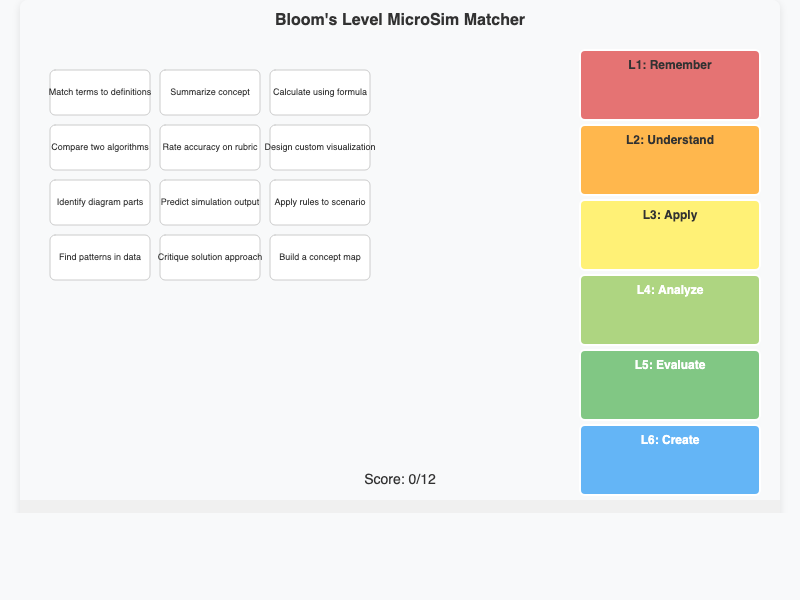
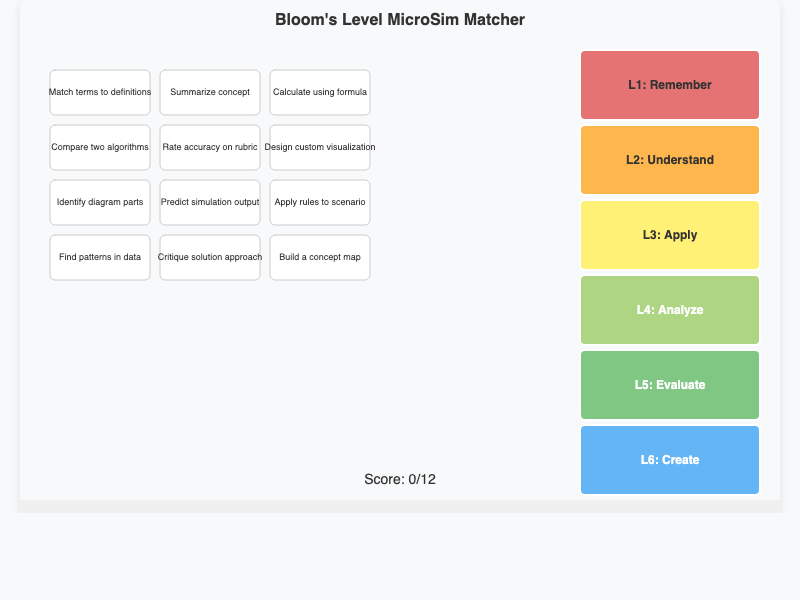
updating content

diff --git a/docs/sims/bloom-microsim-matcher/bloom-microsim-matcher.js b/docs/sims/bloom-microsim-matcher/bloom-microsim-matcher.js
@@ -67,6 +67,7 @@ function draw() {
   textStyle(NORMAL);
 
   // Draw drop zones
+  rectMode(CORNER);  // Reset from drawControls' CENTER mode
   let zoneX = canvasWidth - 200;
   let zoneW = 180;
   let zoneH = 70;
@@ -82,14 +83,18 @@ function draw() {
     noStroke();
     textSize(12);
     textStyle(BOLD);
-    text('L' + (i + 1) + ': ' + bloomLevels[i].name, zoneX + zoneW / 2, y + 15);
-    textStyle(NORMAL);
 
     // Show placed cards count
     let placedCount = cardStates.filter(c => c.placed === i).length;
+
+    // Center text vertically, adjust if showing card count
+    let labelY = placedCount > 0 ? y + zoneH / 2 - 8 : y + zoneH / 2;
+    text('L' + (i + 1) + ': ' + bloomLevels[i].name, zoneX + zoneW / 2, labelY);
+    textStyle(NORMAL);
+
     if (placedCount > 0) {
       textSize(10);
-      text(placedCount + ' card(s)', zoneX + zoneW / 2, y + zoneH - 15);
+      text(placedCount + ' card(s)', zoneX + zoneW / 2, y + zoneH / 2 + 12);
     }
   }
 

diff --git a/docs/sims/apply-level-pendulum/apply-level-pendulum.js b/docs/sims/apply-level-pendulum/apply-level-pendulum.js
@@ -21,7 +21,10 @@ function updateCanvasSize() {
 function setup() {
   updateCanvasSize();
   let canvas = createCanvas(canvasWidth, drawHeight + controlHeight);
-  canvas.parent('canvas-container');
+  let container = document.getElementById('canvas-container');
+  if (container) {
+    canvas.parent(container);
+  }
   textAlign(CENTER, CENTER);
 }
 

diff --git a/docs/sims/index.md b/docs/sims/index.md
@@ -124,4 +124,94 @@ This section contains interactive MicroSims covering topics in metadata, search 
 
     Interactive visualization showing hierarchical relationships between subject disciplines, domains, and topics for Dublin Core metadata classification.
 
+- **[Animation Control Panel](./animation-control-panel/index.md)**
+
+    ![Animation Control Panel](./animation-control-panel/animation-control-panel.png)
+
+    Interactive demonstration of essential animation controls including play, pause, restart, step-through, speed adjustment, and loop toggle with a sample pendulum animation.
+
+- **[Apply-Level Pendulum Calculator](./apply-level-pendulum/index.md)**
+
+    ![Apply-Level Pendulum Calculator](./apply-level-pendulum/apply-level-pendulum.png)
+
+    Students calculate pendulum period using T = 2π√(L/g), then verify their answer against the simulation. Demonstrates Apply-level (L3) learning with hands-on calculation practice.
+
+- **[Bloom's Taxonomy Pyramid](./blooms-taxonomy-pyramid/index.md)**
+
+    ![Bloom's Taxonomy Pyramid](./blooms-taxonomy-pyramid/blooms-taxonomy-pyramid.png)
+
+    Interactive pyramid visualization of Bloom's Taxonomy cognitive levels with example verbs, MicroSim types, and detailed descriptions for each level.
+
+- **[Bloom-MicroSim Matcher](./bloom-microsim-matcher/index.md)**
+
+    ![Bloom-MicroSim Matcher](./bloom-microsim-matcher/bloom-microsim-matcher.png)
+
+    Drag-and-drop matching activity where students connect MicroSim types to their appropriate Bloom's Taxonomy levels with immediate feedback.
+
+- **[Cognitive Load Visualizer](./cognitive-load-visualizer/index.md)**
+
+    ![Cognitive Load Visualizer](./cognitive-load-visualizer/cognitive-load-visualizer.png)
+
+    Beaker visualization demonstrating cognitive load theory with three liquid types representing intrinsic, extraneous, and germane load affecting learning capacity.
+
+- **[Dashboard Layout Builder](./dashboard-patterns/index.md)**
+
+    ![Dashboard Layout Builder](./dashboard-patterns/dashboard-patterns.png)
+
+    Drag-and-drop tool for constructing effective dashboard layouts by selecting and arranging components on a grid canvas with preset templates.
+
+- **[Feedback Loop Comparison](./feedback-loop-sim/index.md)**
+
+    ![Feedback Loop Comparison](./feedback-loop-sim/feedback-loop-sim.png)
+
+    Three-panel comparison of feedback styles (minimal, directive, elaborated) across different error scenarios showing effectiveness percentages and research findings.
+
+- **[Grade Level Progression](./grade-level-progression/index.md)**
+
+    ![Grade Level Progression](./grade-level-progression/grade-level-progression.png)
+
+    Visual timeline showing characteristics of educational content across grade levels from elementary through graduate, with reading level and complexity indicators.
+
+- **[Graph Layout Gallery](./graph-viz-gallery/index.md)**
+
+    ![Graph Layout Gallery](./graph-viz-gallery/graph-viz-gallery.png)
+
+    Gallery of five graph layout algorithms (Force-Directed, Hierarchical, Circular, Radial, Grid) showing the same data rendered in each style with descriptions.
+
+- **[Guided Discovery Path](./guided-discovery-path/index.md)**
+
+    ![Guided Discovery Path](./guided-discovery-path/guided-discovery-path.png)
+
+    Nine-step interactive workflow showing the guided discovery learning process from initial question through scaffolded exploration to knowledge transfer.
+
+- **[Learning Theories Comparison](./learning-theories-compare/index.md)**
+
+    ![Learning Theories Comparison](./learning-theories-compare/learning-theories-compare.png)
+
+    Four-quadrant comparison of major learning theories (Constructivism, Behaviorism, Cognitivism, Experiential) with central design challenge integration.
+
+- **[Rubric Scorer](./rubric-scorer/index.md)**
+
+    ![Rubric Scorer](./rubric-scorer/rubric-scorer.png)
+
+    Interactive rubric assessment tool where students evaluate work samples using criteria and compare their scores against expert assessment.
+
+- **[Simulation Anatomy](./simulation-anatomy/index.md)**
+
+    ![Simulation Anatomy](./simulation-anatomy/simulation-anatomy.png)
+
+    Annotated diagram showing the five essential regions of an educational simulation interface: Visualization, Control Panel, Information, Title, and Help.
+
+- **[Standards Comparison](./standards-comparison/index.md)**
+
+    ![Standards Comparison](./standards-comparison/standards-comparison.png)
+
+    Side-by-side comparison of educational standards frameworks (Common Core, NGSS, ISTE, state standards) with feature analysis and recommendations.
+
+- **[Timeline Layout Styles](./timeline-styles/index.md)**
+
+    ![Timeline Layout Styles](./timeline-styles/timeline-styles.png)
+
+    Comparison of four timeline visualization styles (Horizontal Linear, Vertical Scroll, Centered Alternating, Parallel Tracks) with the same event data.
+
 </div>

diff --git a/docs/sims/apply-level-pendulum/index.md b/docs/sims/apply-level-pendulum/index.md
@@ -10,6 +10,7 @@ quality_score: 87
 
 [View Full Screen](main.html){ .md-button .md-button--primary }
 
+[Edit in the P5.js Editor](https://editor.p5js.org/dmccreary/sketches/T_cP0cGwr)
 ## About This MicroSim
 
 This Apply-level (L3) MicroSim requires students to calculate the period of a simple pendulum, then verify their answer against the simulation.
